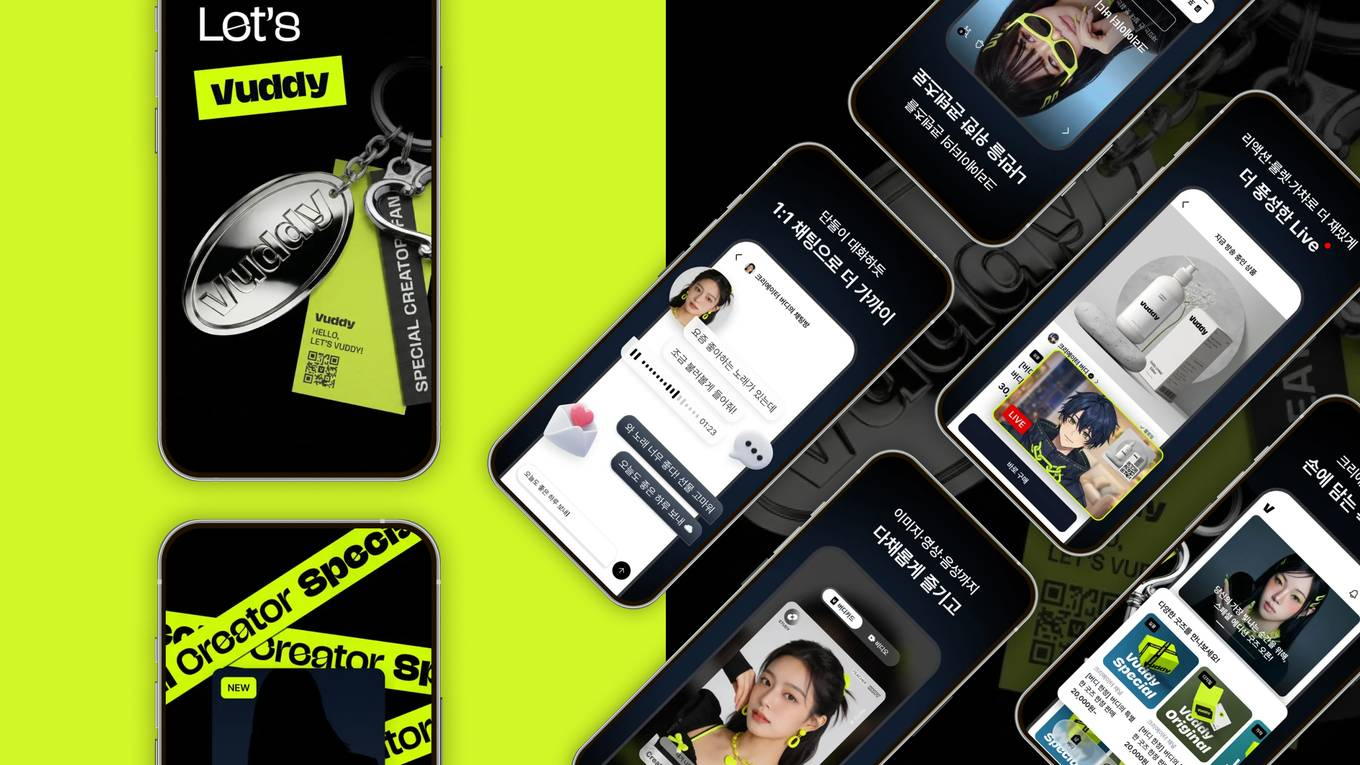
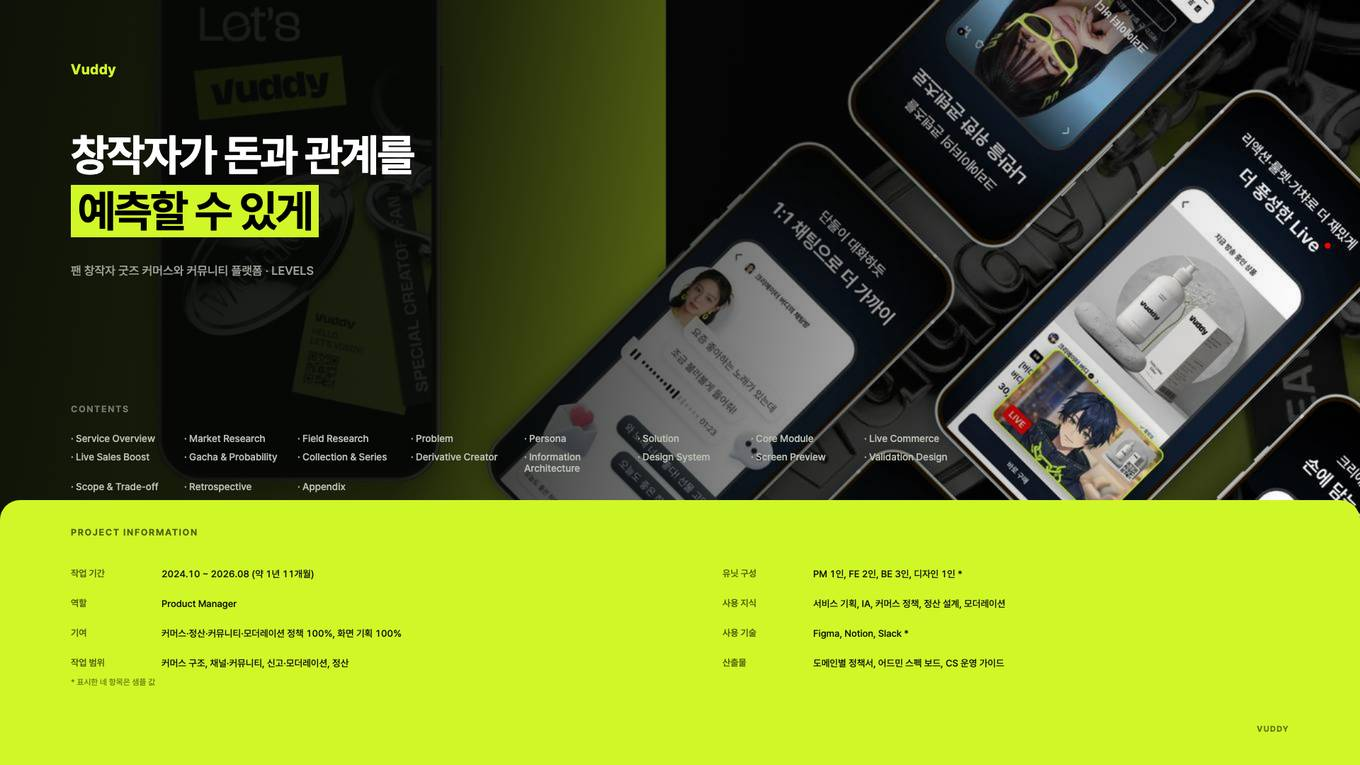
Vuddy 표지 슬라이드에 배경 커버 이미지 + 키컬러 패널 적용
- .fr.cov에 브랜드 키아트(pf77 원본)를 배경으로 깔고, 좌측에서 우측으로
  옅어지는 다크 스크림을 얹어 텍스트 가독성 확보
- PROJECT INFORMATION 패널을 라스트마일/Samantha와 같은 비율로 재배치
  (top 808→706, height 272→374, 상단 라운드) 하고 Vuddy 키컬러
  라임(var(--lime))으로 채움, 텍스트는 다크 잉크로 대비 확보
- CONTENTS 목록 컬럼 폭을 줄여 패널과 안 겹치게 정리
- 포트폴리오 릴 썸네일(images/pf77.jpg)도 새 표지로 재캡처

diff --git a/works/vuddy-embed.html b/works/vuddy-embed.html
@@ -375,7 +375,8 @@ svg{font-family:Pretendard;font-variant-numeric:tabular-nums}
 @media (prefers-reduced-motion:reduce){
  .bfill,.bfy,.arc,.dot,.rise,.tlfill{animation:none!important;opacity:1!important;transform:none!important;stroke-dashoffset:var(--do)!important}}
 </style></head><body>
-<div class="wrap" id="vd-01"><div class="stage"><div class="fr cov">
+<div class="wrap" id="vd-01"><div class="stage"><div class="fr cov" style="background-image:url('../images/pf77.jpg');background-size:cover;background-position:62% center">
+ <div style="position:absolute;inset:0;background:linear-gradient(100deg,rgba(6,8,6,.96) 0%,rgba(6,8,6,.88) 32%,rgba(6,8,6,.55) 52%,rgba(6,8,6,.18) 72%,rgba(6,8,6,0) 92%)"></div>
 
  <div style="position:absolute;left:100px;top:86px;font-size:20px;font-weight:700;color:var(--lime);letter-spacing:.02em">Vuddy</div>
  <div style="position:absolute;left:100px;top:180px;width:1200px;font-size:62px;font-weight:700;
@@ -383,25 +384,25 @@ svg{font-family:Pretendard;font-variant-numeric:tabular-nums}
  <div style="position:absolute;left:100px;top:372px;width:1200px;font-size:17px;font-weight:500;color:#9AA396">
    팬 창작자 굿즈 커머스와 커뮤니티 플랫폼 · LEVELS</div>
 
- <div style="position:absolute;left:100px;top:590px;font-size:13px;font-weight:700;color:#6E7A6C;letter-spacing:.12em">CONTENTS</div>
- <div style="position:absolute;left:100px;top:626px;width:1300px;display:flex;flex-wrap:wrap;gap:0">
-  <div style="width:220px;font-size:14px;color:#B6BEB2;font-weight:500;padding:5px 0">· Service Overview</div><div style="width:220px;font-size:14px;color:#B6BEB2;font-weight:500;padding:5px 0">· Market Research</div><div style="width:220px;font-size:14px;color:#B6BEB2;font-weight:500;padding:5px 0">· Field Research</div><div style="width:220px;font-size:14px;color:#B6BEB2;font-weight:500;padding:5px 0">· Problem</div><div style="width:220px;font-size:14px;color:#B6BEB2;font-weight:500;padding:5px 0">· Persona</div><div style="width:220px;font-size:14px;color:#B6BEB2;font-weight:500;padding:5px 0">· Solution</div><div style="width:220px;font-size:14px;color:#B6BEB2;font-weight:500;padding:5px 0">· Core Module</div><div style="width:220px;font-size:14px;color:#B6BEB2;font-weight:500;padding:5px 0">· Live Commerce</div><div style="width:220px;font-size:14px;color:#B6BEB2;font-weight:500;padding:5px 0">· Live Sales Boost</div><div style="width:220px;font-size:14px;color:#B6BEB2;font-weight:500;padding:5px 0">· Gacha &amp; Probability</div><div style="width:220px;font-size:14px;color:#B6BEB2;font-weight:500;padding:5px 0">· Collection &amp; Series</div><div style="width:220px;font-size:14px;color:#B6BEB2;font-weight:500;padding:5px 0">· Derivative Creator</div><div style="width:220px;font-size:14px;color:#B6BEB2;font-weight:500;padding:5px 0">· Information Architecture</div><div style="width:220px;font-size:14px;color:#B6BEB2;font-weight:500;padding:5px 0">· Design System</div><div style="width:220px;font-size:14px;color:#B6BEB2;font-weight:500;padding:5px 0">· Screen Preview</div><div style="width:220px;font-size:14px;color:#B6BEB2;font-weight:500;padding:5px 0">· Validation Design</div><div style="width:220px;font-size:14px;color:#B6BEB2;font-weight:500;padding:5px 0">· Scope &amp; Trade-off</div><div style="width:220px;font-size:14px;color:#B6BEB2;font-weight:500;padding:5px 0">· Retrospective</div><div style="width:220px;font-size:14px;color:#B6BEB2;font-weight:500;padding:5px 0">· Appendix</div>
+ <div style="position:absolute;left:100px;top:570px;font-size:13px;font-weight:700;color:#6E7A6C;letter-spacing:.12em">CONTENTS</div>
+ <div style="position:absolute;left:100px;top:606px;width:1300px;display:flex;flex-wrap:wrap;gap:0">
+  <div style="width:160px;font-size:14px;color:#B6BEB2;font-weight:500;padding:5px 0">· Service Overview</div><div style="width:160px;font-size:14px;color:#B6BEB2;font-weight:500;padding:5px 0">· Market Research</div><div style="width:160px;font-size:14px;color:#B6BEB2;font-weight:500;padding:5px 0">· Field Research</div><div style="width:160px;font-size:14px;color:#B6BEB2;font-weight:500;padding:5px 0">· Problem</div><div style="width:160px;font-size:14px;color:#B6BEB2;font-weight:500;padding:5px 0">· Persona</div><div style="width:160px;font-size:14px;color:#B6BEB2;font-weight:500;padding:5px 0">· Solution</div><div style="width:160px;font-size:14px;color:#B6BEB2;font-weight:500;padding:5px 0">· Core Module</div><div style="width:160px;font-size:14px;color:#B6BEB2;font-weight:500;padding:5px 0">· Live Commerce</div><div style="width:160px;font-size:14px;color:#B6BEB2;font-weight:500;padding:5px 0">· Live Sales Boost</div><div style="width:160px;font-size:14px;color:#B6BEB2;font-weight:500;padding:5px 0">· Gacha &amp; Probability</div><div style="width:160px;font-size:14px;color:#B6BEB2;font-weight:500;padding:5px 0">· Collection &amp; Series</div><div style="width:160px;font-size:14px;color:#B6BEB2;font-weight:500;padding:5px 0">· Derivative Creator</div><div style="width:160px;font-size:14px;color:#B6BEB2;font-weight:500;padding:5px 0">· Information Architecture</div><div style="width:160px;font-size:14px;color:#B6BEB2;font-weight:500;padding:5px 0">· Design System</div><div style="width:160px;font-size:14px;color:#B6BEB2;font-weight:500;padding:5px 0">· Screen Preview</div><div style="width:160px;font-size:14px;color:#B6BEB2;font-weight:500;padding:5px 0">· Validation Design</div><div style="width:160px;font-size:14px;color:#B6BEB2;font-weight:500;padding:5px 0">· Scope &amp; Trade-off</div><div style="width:160px;font-size:14px;color:#B6BEB2;font-weight:500;padding:5px 0">· Retrospective</div><div style="width:160px;font-size:14px;color:#B6BEB2;font-weight:500;padding:5px 0">· Appendix</div>
  </div>
 
- <div style="position:absolute;left:0;top:808px;width:1920px;height:272px;background:#0E1011">
-  <div style="position:absolute;left:100px;top:38px;font-size:13px;font-weight:700;color:#6E7A6C;letter-spacing:.12em">PROJECT INFORMATION</div>
-  <div style="position:absolute;left:100px;top:96px;width:110px;font-size:13px;color:#6E7A6C;font-weight:600">작업 기간</div>
-  <div style="position:absolute;left:228px;top:96px;width:560px;font-size:13.5px;color:#DDE3D9;font-weight:500">2024.10 ~ 2026.08 (약 1년 11개월)</div><div style="position:absolute;left:100px;top:138px;width:110px;font-size:13px;color:#6E7A6C;font-weight:600">역할</div>
-  <div style="position:absolute;left:228px;top:138px;width:560px;font-size:13.5px;color:#DDE3D9;font-weight:500">Product Manager</div><div style="position:absolute;left:100px;top:180px;width:110px;font-size:13px;color:#6E7A6C;font-weight:600">기여</div>
-  <div style="position:absolute;left:228px;top:180px;width:560px;font-size:13.5px;color:#DDE3D9;font-weight:500">커머스·정산·커뮤니티·모더레이션 정책 100%, 화면 기획 100%</div><div style="position:absolute;left:100px;top:222px;width:110px;font-size:13px;color:#6E7A6C;font-weight:600">작업 범위</div>
-  <div style="position:absolute;left:228px;top:222px;width:560px;font-size:13.5px;color:#DDE3D9;font-weight:500">커머스 구조, 채널·커뮤니티, 신고·모더레이션, 정산</div><div style="position:absolute;left:1020px;top:96px;width:110px;font-size:13px;color:#6E7A6C;font-weight:600">유닛 구성</div>
-  <div style="position:absolute;left:1148px;top:96px;width:660px;font-size:13.5px;color:#DDE3D9;font-weight:500">PM 1인, FE 2인, BE 3인, 디자인 1인 *</div><div style="position:absolute;left:1020px;top:138px;width:110px;font-size:13px;color:#6E7A6C;font-weight:600">사용 지식</div>
-  <div style="position:absolute;left:1148px;top:138px;width:660px;font-size:13.5px;color:#DDE3D9;font-weight:500">서비스 기획, IA, 커머스 정책, 정산 설계, 모더레이션</div><div style="position:absolute;left:1020px;top:180px;width:110px;font-size:13px;color:#6E7A6C;font-weight:600">사용 기술</div>
-  <div style="position:absolute;left:1148px;top:180px;width:660px;font-size:13.5px;color:#DDE3D9;font-weight:500">Figma, Notion, Slack *</div><div style="position:absolute;left:1020px;top:222px;width:110px;font-size:13px;color:#6E7A6C;font-weight:600">산출물</div>
-  <div style="position:absolute;left:1148px;top:222px;width:660px;font-size:13.5px;color:#DDE3D9;font-weight:500">도메인별 정책서, 어드민 스펙 보드, CS 운영 가이드</div>
-  <div style="position:absolute;left:100px;top:250px;font-size:11.5px;color:#5C6459;font-weight:500">* 표시한 네 항목은 샘플 값</div>
+ <div style="position:absolute;left:0;top:706px;width:1920px;height:374px;background:var(--lime);border-radius:28px 28px 0 0">
+  <div style="position:absolute;left:100px;top:38px;font-size:13px;font-weight:700;color:rgba(0,0,0,.62);letter-spacing:.12em">PROJECT INFORMATION</div>
+  <div style="position:absolute;left:100px;top:96px;width:110px;font-size:13px;color:rgba(0,0,0,.62);font-weight:600">작업 기간</div>
+  <div style="position:absolute;left:228px;top:96px;width:560px;font-size:13.5px;color:#0B0D0A;font-weight:500">2024.10 ~ 2026.08 (약 1년 11개월)</div><div style="position:absolute;left:100px;top:138px;width:110px;font-size:13px;color:rgba(0,0,0,.62);font-weight:600">역할</div>
+  <div style="position:absolute;left:228px;top:138px;width:560px;font-size:13.5px;color:#0B0D0A;font-weight:500">Product Manager</div><div style="position:absolute;left:100px;top:180px;width:110px;font-size:13px;color:rgba(0,0,0,.62);font-weight:600">기여</div>
+  <div style="position:absolute;left:228px;top:180px;width:560px;font-size:13.5px;color:#0B0D0A;font-weight:500">커머스·정산·커뮤니티·모더레이션 정책 100%, 화면 기획 100%</div><div style="position:absolute;left:100px;top:222px;width:110px;font-size:13px;color:rgba(0,0,0,.62);font-weight:600">작업 범위</div>
+  <div style="position:absolute;left:228px;top:222px;width:560px;font-size:13.5px;color:#0B0D0A;font-weight:500">커머스 구조, 채널·커뮤니티, 신고·모더레이션, 정산</div><div style="position:absolute;left:1020px;top:96px;width:110px;font-size:13px;color:rgba(0,0,0,.62);font-weight:600">유닛 구성</div>
+  <div style="position:absolute;left:1148px;top:96px;width:660px;font-size:13.5px;color:#0B0D0A;font-weight:500">PM 1인, FE 2인, BE 3인, 디자인 1인 *</div><div style="position:absolute;left:1020px;top:138px;width:110px;font-size:13px;color:rgba(0,0,0,.62);font-weight:600">사용 지식</div>
+  <div style="position:absolute;left:1148px;top:138px;width:660px;font-size:13.5px;color:#0B0D0A;font-weight:500">서비스 기획, IA, 커머스 정책, 정산 설계, 모더레이션</div><div style="position:absolute;left:1020px;top:180px;width:110px;font-size:13px;color:rgba(0,0,0,.62);font-weight:600">사용 기술</div>
+  <div style="position:absolute;left:1148px;top:180px;width:660px;font-size:13.5px;color:#0B0D0A;font-weight:500">Figma, Notion, Slack *</div><div style="position:absolute;left:1020px;top:222px;width:110px;font-size:13px;color:rgba(0,0,0,.62);font-weight:600">산출물</div>
+  <div style="position:absolute;left:1148px;top:222px;width:660px;font-size:13.5px;color:#0B0D0A;font-weight:500">도메인별 정책서, 어드민 스펙 보드, CS 운영 가이드</div>
+  <div style="position:absolute;left:100px;top:250px;font-size:11.5px;color:rgba(0,0,0,.5);font-weight:500">* 표시한 네 항목은 샘플 값</div>
  </div>
- <div class="pgn w">VUDDY</div>
+ <div class="pgn w" style="color:rgba(0,0,0,.55)">VUDDY</div>
 </div></div></div>
 <div class="wrap" id="vd-02"><div class="stage"><div class="fr">
  <div class="rl a"></div><div class="rl b"></div>
